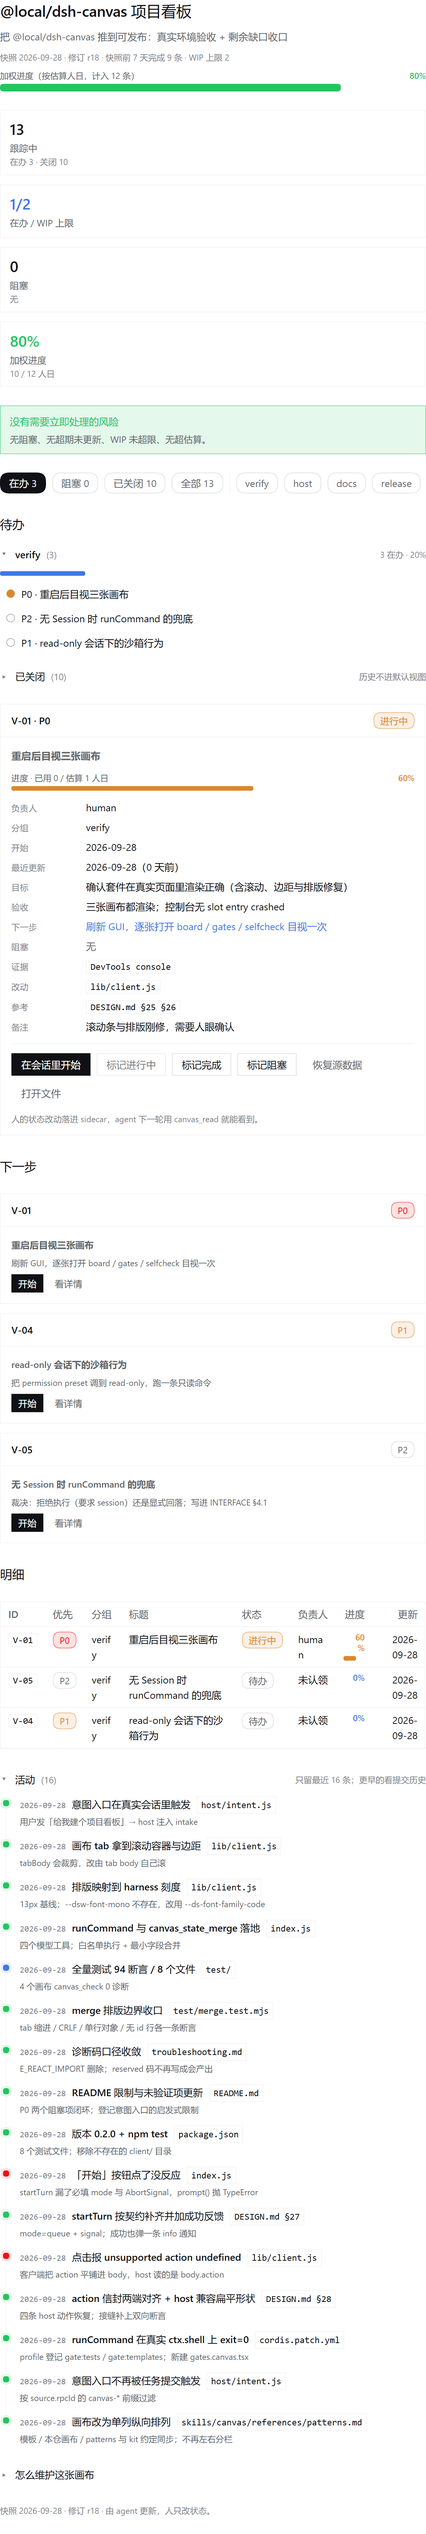
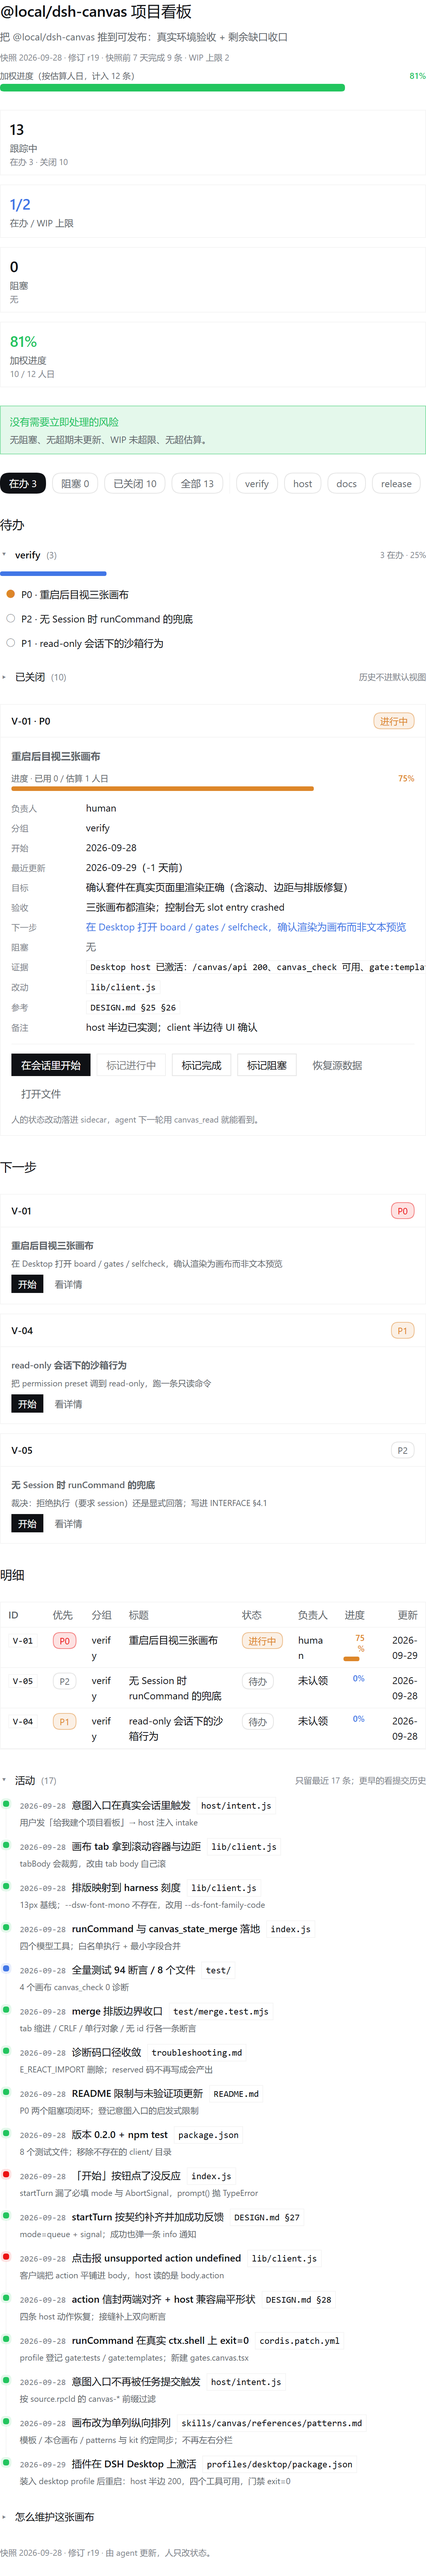
chore(board): Desktop 激活后更新项目看板（r19）
- V-01 进度 75%：host 半边已在 DSH Desktop 实测（/canvas/api 200、canvas_check 可用、
  gate:templates exit=0），剩 client 半边的目视确认
- 新增 a17 活动条目记录 Desktop 激活
- 同步刷新 board 的浅/深两张截图

diff --git a/board.canvas.tsx b/board.canvas.tsx
@@ -29,7 +29,7 @@ type Task = {
 export const DATA = {
   goal: "把 @local/dsh-canvas 推到可发布：真实环境验收 + 剩余缺口收口",
   asOf: "2026-09-28",
-  revision: "r18",
+  revision: "r19",
   wipLimit: 2,
   staleDays: 7,
   lanes: ["verify", "host", "docs", "release"],
@@ -37,13 +37,13 @@ export const DATA = {
     {
       id: "V-01", lane: "verify", title: "重启后目视三张画布",
       status: "in_progress", priority: "P0", owner: "human",
-      progress: 60, estimate: 1, actual: 0,
-      startedAt: "2026-09-28", updatedAt: "2026-09-28", completedAt: "", blocker: "",
+      progress: 75, estimate: 1, actual: 0,
+      startedAt: "2026-09-28", updatedAt: "2026-09-29", completedAt: "", blocker: "",
       goal: "确认套件在真实页面里渲染正确（含滚动、边距与排版修复）",
-      next: "刷新 GUI，逐张打开 board / gates / selfcheck 目视一次",
+      next: "在 Desktop 打开 board / gates / selfcheck，确认渲染为画布而非文本预览",
       acceptance: "三张画布都渲染；控制台无 slot entry crashed",
-      evidence: "DevTools console", write: "lib/client.js",
-      ref: "DESIGN.md §25 §26", note: "滚动条与排版刚修，需要人眼确认",
+      evidence: "Desktop host 已激活：/canvas/api 200、canvas_check 可用、gate:templates exit=0", write: "lib/client.js",
+      ref: "DESIGN.md §25 §26", note: "host 半边已实测；client 半边待 UI 确认",
     },
     {
       id: "V-02", lane: "verify", title: "画布意图入口真实触发",
@@ -194,7 +194,8 @@ export const DATA = {
     { id: "a13", at: "2026-09-28", title: "action 信封两端对齐 + host 兼容扁平形状", tone: "success", detail: "四条 host 动作恢复；接缝补上双向断言", ref: "DESIGN.md §28" },
     { id: "a14", at: "2026-09-28", title: "runCommand 在真实 ctx.shell 上 exit=0", tone: "success", detail: "profile 登记 gate:tests / gate:templates；新建 gates.canvas.tsx", ref: "cordis.patch.yml" },
     { id: "a15", at: "2026-09-28", title: "意图入口不再被任务提交触发", tone: "success", detail: "按 source.rpcId 的 canvas-* 前缀过滤", ref: "host/intent.js" },
-    { id: "a16", at: "2026-09-28", title: "画布改为单列纵向排列", tone: "success", detail: "模板 / 本仓画布 / patterns 与 kit 约定同步；不再左右分栏", ref: "skills/canvas/references/patterns.md" }
+    { id: "a16", at: "2026-09-28", title: "画布改为单列纵向排列", tone: "success", detail: "模板 / 本仓画布 / patterns 与 kit 约定同步；不再左右分栏", ref: "skills/canvas/references/patterns.md" },
+    { id: "a17", at: "2026-09-29", title: "插件在 DSH Desktop 上激活", tone: "success", detail: "装入 desktop profile 后重启：host 半边 200，四个工具可用，门禁 exit=0", ref: "profiles/desktop/package.json" },
   ],
 } as const;
 
